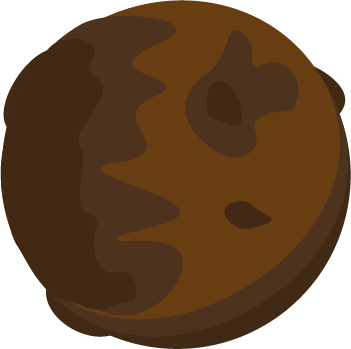
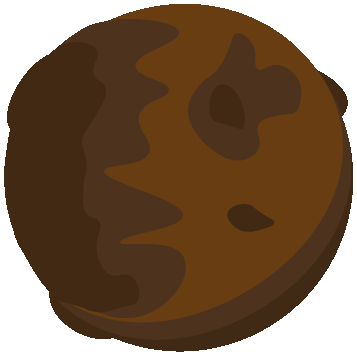
Changed the zone graphics

diff --git a/main.py b/main.py
@@ -4,7 +4,7 @@ from menu import MainMenu,EndScreen,SettingsMenu
 from ursina import *
 from ursina.shaders.screenspace_shaders.fxaa import fxaa_shader
 
-import json
+import json,random
 
 window.title = 'Hidden in the Shadows'
 app = Ursina()
@@ -90,7 +90,7 @@ class Asteroid(Entity):
     def __init__(self,mass,position,world=None, **kwargs):
         super().__init__(**kwargs)
         self.model = "quad"
-        self.texture = "asteroid3"
+        self.texture = random.choice(("asteroid2","asteroid3"))
         self.scale = 3*mass**0.7
         self.position = position
         self.mass = mass
@@ -113,7 +113,6 @@ class BounceZone(Entity):
         super().__init__(**kwargs)
         self.model = "quad"
         self.texture = "zone"
-        self.color = color.rgb(0, 27, 120)
         self.scale = scale
         self.position = Vec3(*position,0)
         self.origin= Vec2(-0.5,-0.5)
@@ -138,7 +137,7 @@ if __name__ == "__main__":
     def start():
         global total_time
         click_sound.play()
-        World("world1.json",end= lambda: load_world(2))
+        World("world4.json",end= lambda: load_world(2))
         music.play()
         total_time = 0
 

diff --git a/bullet.py b/bullet.py
@@ -60,7 +60,7 @@ class Bullet(Entity):
             self.explosion_sound.play()
             destroy(self.explosion_sound, delay=self.explosion_sound.length)
             emiter = Emiter(rate=0.1,start=lambda : random.random()*2,maxi=lambda : random.random()*1,length=0.1,color=lambda : random.choice((color.yellow,color.red,color.orange)),curve=curve.linear,velocity=lambda : Vec2(random.random()*2-1,random.random()*2-1))
-            emiter.position = self.world_position
+            emiter.position = self.world_position-Vec3(0,0,1)
             destroy(emiter, delay=self.explosion_sound.length*0.75)
         else:
             destroy(self.explosion_sound)
